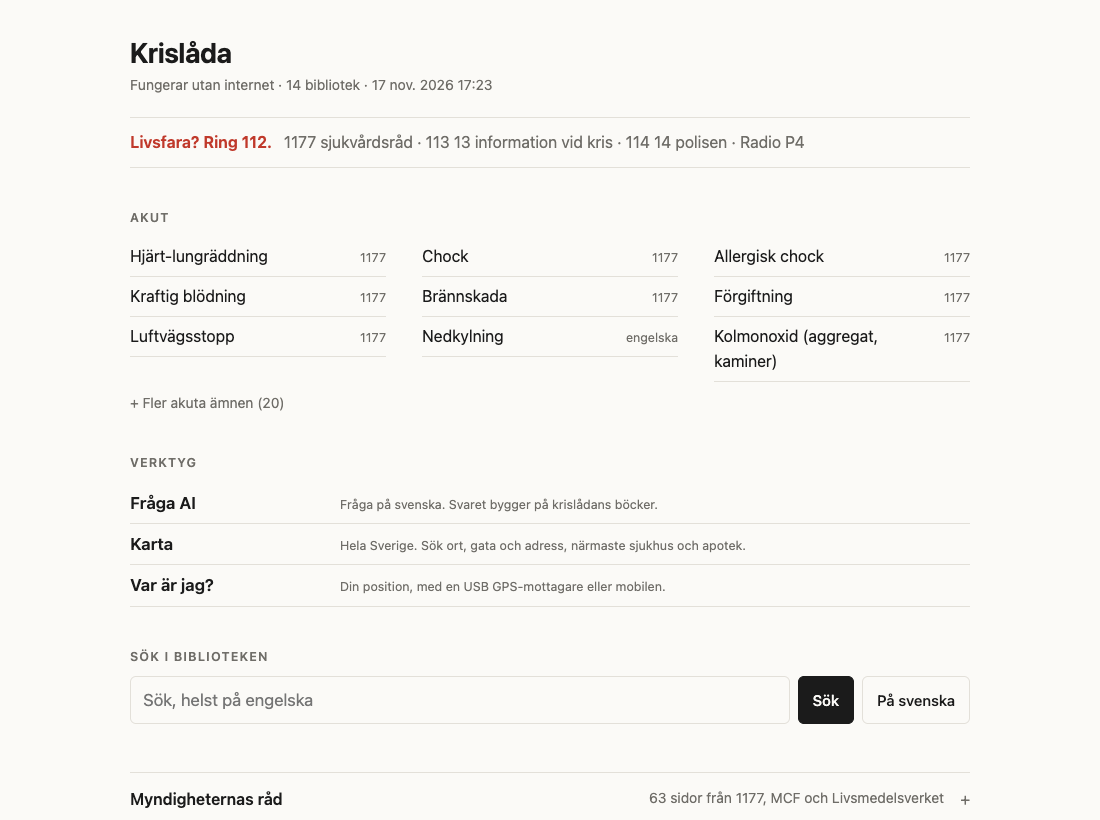
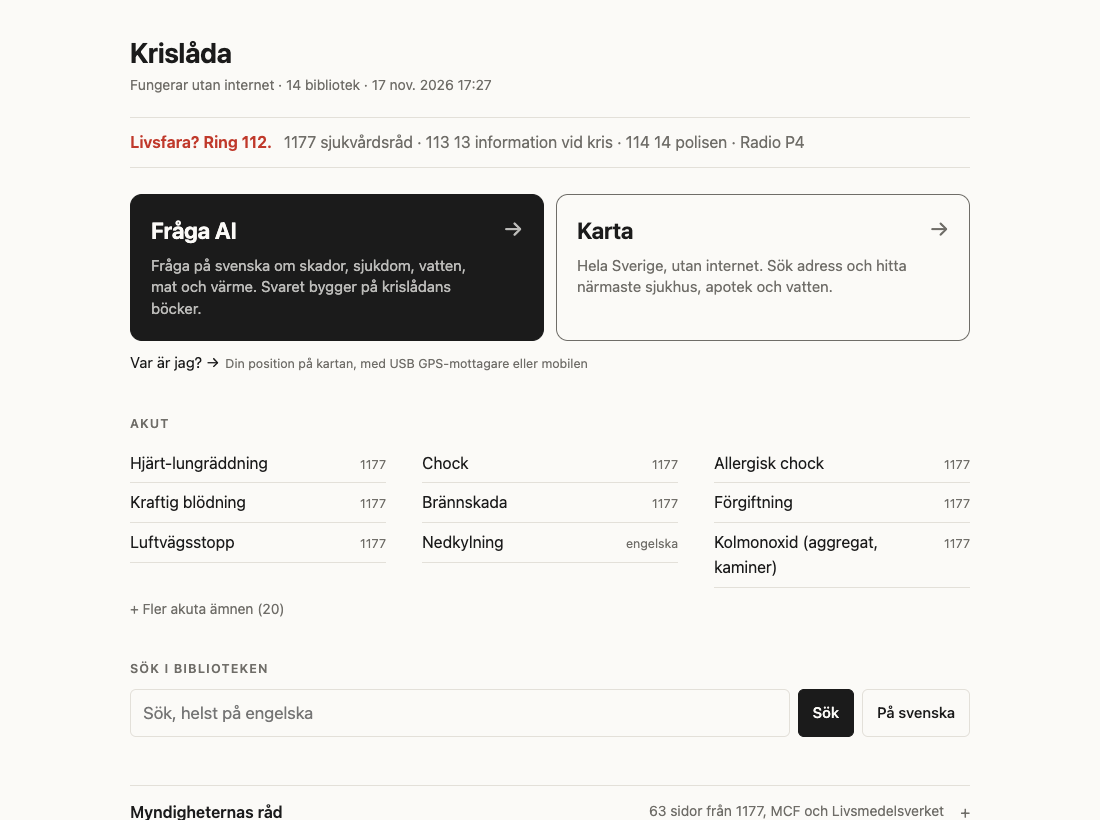
Fråga AI and Karta stand out on the start page
Two large blocks right under the Ring 112 line, Fråga AI filled and Karta
outlined, with Var är jag? as a link beneath. The tools list they replace
is gone.

diff --git a/scripts/build-home.py b/scripts/build-home.py
@@ -258,7 +258,18 @@ TEMPLATE = r"""<!doctype html>
 <link rel="icon" href="/icon-180.png">
 <link rel="stylesheet" href="lib/kit.css">
 <style>
-  .tools a { font-size: 17px; }
+  .primary { display: grid; grid-template-columns: 1fr 1fr; gap: 12px; margin-top: 26px; }
+  .big { position: relative; display: block; padding: 18px 20px 20px; border: 1px solid var(--muted); border-radius: 12px;
+         text-decoration: none; color: var(--fg); background: var(--bg); transition: border-color .15s, transform .15s; }
+  .big:hover { border-color: var(--fg); transform: translateY(-1px); }
+  .big b { display: block; font-size: 23px; font-weight: 650; letter-spacing: -.01em; }
+  .big span { display: block; margin-top: 6px; color: var(--muted); font-size: 15px; line-height: 1.45; max-width: 36ch; }
+  .big i { position: absolute; top: 17px; right: 20px; font-style: normal; font-size: 22px; color: var(--muted); }
+  .big.dark { background: var(--fg); color: var(--bg); border-color: var(--fg); }
+  .big.dark span, .big.dark i { color: var(--bg); opacity: .72; }
+  .where { margin: 10px 0 0; font-size: 15px; }
+  .where a { text-decoration: none; } .where a:hover { text-decoration: underline; }
+  .where small { margin-left: 6px; }
   form.search { display: flex; gap: 8px; }
   form.search input { flex: 1; min-width: 0; }
   details.more { border-top: 1px solid var(--line); }
@@ -275,6 +286,9 @@ TEMPLATE = r"""<!doctype html>
   details.inline[open] > summary { padding-bottom: 6px; }
   .later { margin-top: 48px; }
   @media (max-width: 560px) {
+    .primary { grid-template-columns: 1fr; gap: 10px; margin-top: 20px; }
+    .big { padding: 16px 18px; } .big b { font-size: 21px; }
+    .where small { display: block; margin: 2px 0 0; }
     form.search { flex-wrap: wrap; }
     form.search input { flex-basis: 100%; }
     details.more > summary span { display: none; }
@@ -289,19 +303,16 @@ TEMPLATE = r"""<!doctype html>
   <p class="emergency"><strong>Livsfara? Ring 112.</strong><span>1177 sjukvårdsråd · 113&nbsp;13 information vid kris · 114&nbsp;14 polisen · Radio P4</span></p>
   <p class="notice" id="battery" hidden></p>
 
+  <div class="primary">
+    <a class="big dark" href="ai/"><b>Fråga AI</b><span>Fråga på svenska om skador, sjukdom, vatten, mat och värme. Svaret bygger på krislådans böcker.</span><i>→</i></a>
+    <a class="big" href="map/"><b>Karta</b><span>Hela Sverige, utan internet. Sök adress och hitta närmaste sjukhus, apotek och vatten.</span><i>→</i></a>
+  </div>
+  <p class="where"><a href="map/?gps=1">Var är jag? →</a><small>Din position på kartan, med USB GPS-mottagare eller mobilen</small></p>
+
   <section>
     <h2>Akut</h2>
     <ul class="list cols">%EMERGENCY%</ul>
     <details class="inline"><summary>+ Fler akuta ämnen (%MORECOUNT%)</summary><ul class="list cols">%MORE%</ul></details>
-  </section>
-
-  <section>
-    <h2>Verktyg</h2>
-    <ul class="list rows tools">
-      <li><a href="ai/">Fråga AI</a><small>Fråga på svenska. Svaret bygger på krislådans böcker.</small></li>
-      <li><a href="map/">Karta</a><small>Hela Sverige. Sök ort, gata och adress, närmaste sjukhus och apotek.</small></li>
-      <li><a href="map/?gps=1">Var är jag?</a><small>Din position, med en USB GPS-mottagare eller mobilen.</small></li>
-    </ul>
   </section>
 
   <section>
